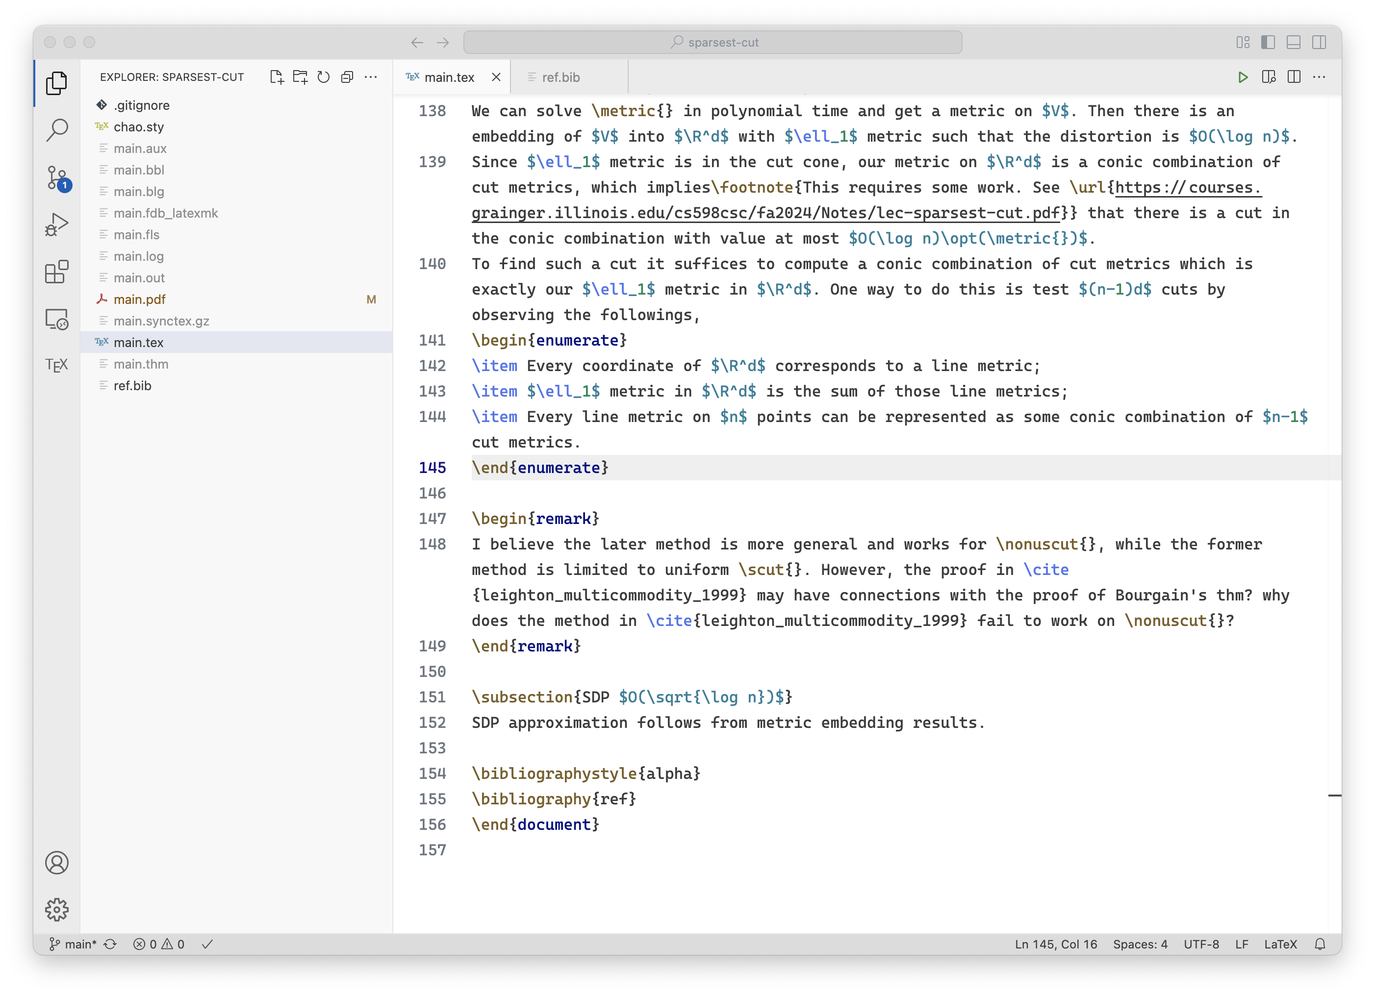
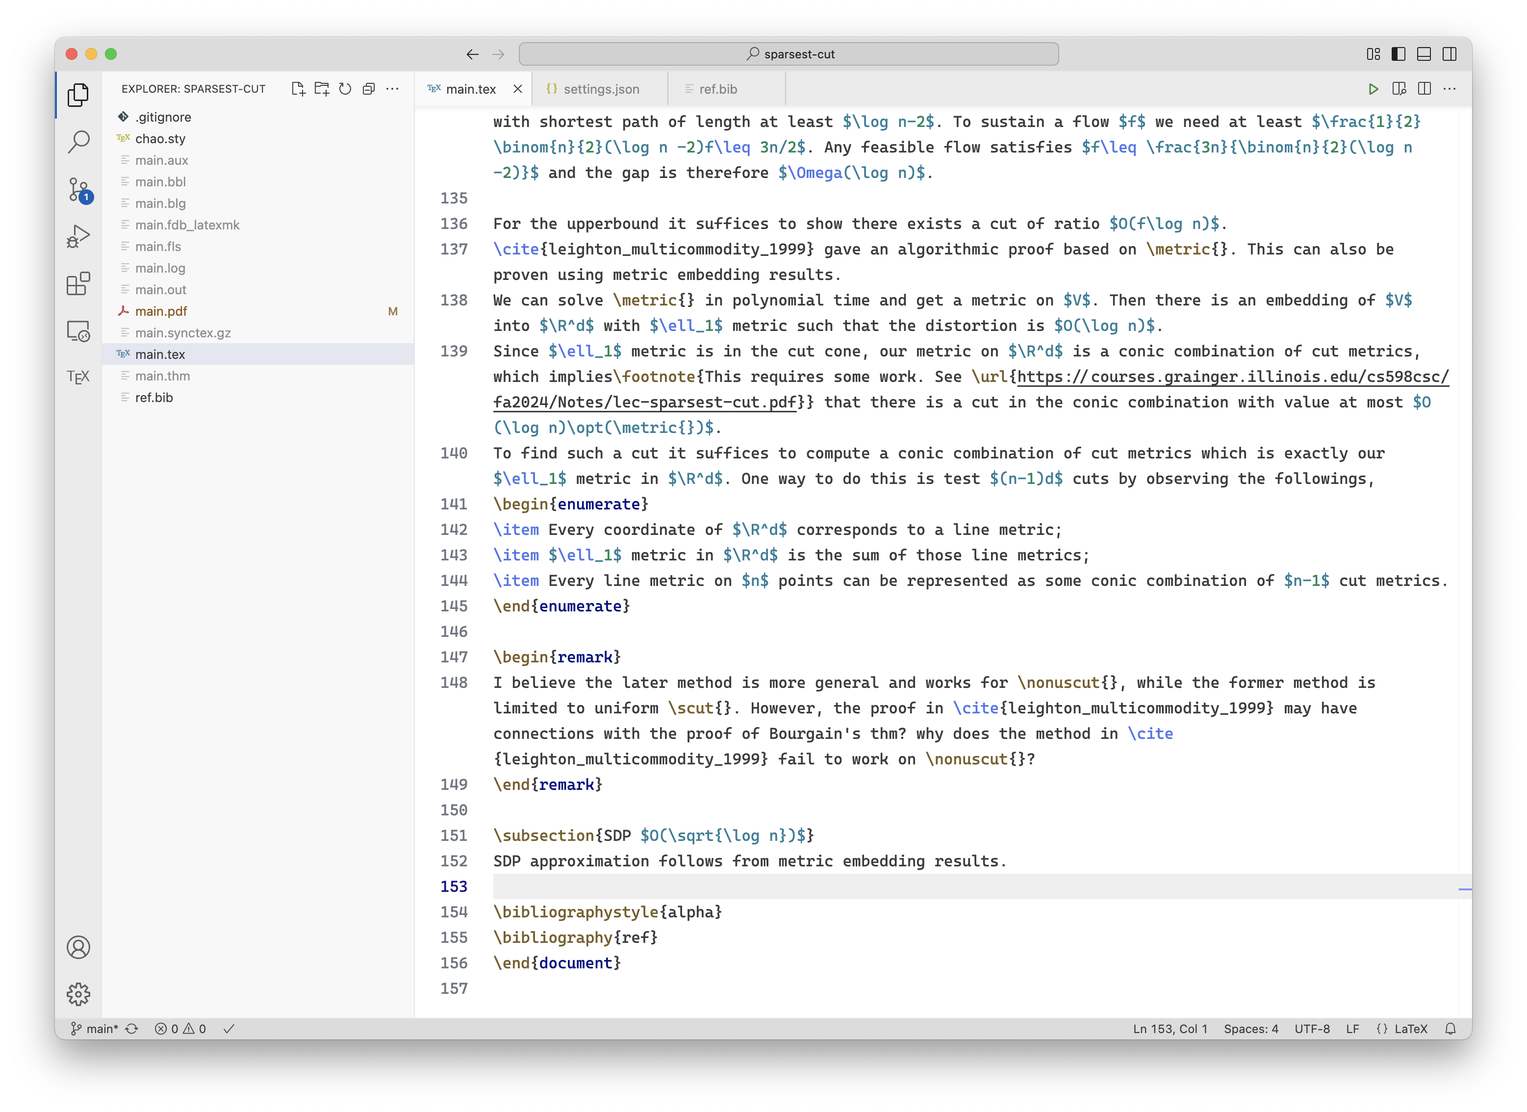
change cursor color. new example

Changed region(s): [[0.0, 0.0, 0.9929, 0.9611], [0.8998, 0.4961, 0.9308, 0.5271]]

diff --git a/_site/posts/zedtheme.html b/_site/posts/zedtheme.html
@@ -71,64 +71,65 @@ Modern theme looks like Zed’s One Light.</p>
 <span id="cb1-16"><a href="#cb1-16" aria-hidden="true" tabindex="-1"></a><span class="at">    </span><span class="fu">&quot;editorGroupHeader.border&quot;</span><span class="kw">:</span><span class="at"> </span><span class="st">&quot;#ebebec&quot;</span><span class="kw">,</span></span>
 <span id="cb1-17"><a href="#cb1-17" aria-hidden="true" tabindex="-1"></a><span class="at">    </span><span class="fu">&quot;statusBar.background&quot;</span><span class="kw">:</span><span class="at"> </span><span class="st">&quot;#dcdcdd&quot;</span><span class="kw">,</span></span>
 <span id="cb1-18"><a href="#cb1-18" aria-hidden="true" tabindex="-1"></a><span class="at">    </span><span class="fu">&quot;activityBar.background&quot;</span><span class="kw">:</span><span class="at"> </span><span class="st">&quot;#ebebec&quot;</span><span class="kw">,</span></span>
-<span id="cb1-19"><a href="#cb1-19" aria-hidden="true" tabindex="-1"></a><span class="kw">}</span><span class="at">,</span></span>
-<span id="cb1-20"><a href="#cb1-20" aria-hidden="true" tabindex="-1"></a><span class="fu">&quot;editor.tokenColorCustomizations&quot;</span><span class="kw">:</span><span class="at"> </span><span class="kw">{</span></span>
-<span id="cb1-21"><a href="#cb1-21" aria-hidden="true" tabindex="-1"></a><span class="at">    </span><span class="fu">&quot;textMateRules&quot;</span><span class="kw">:</span><span class="at"> </span><span class="kw">[</span></span>
-<span id="cb1-22"><a href="#cb1-22" aria-hidden="true" tabindex="-1"></a><span class="at">        </span><span class="kw">{</span></span>
-<span id="cb1-23"><a href="#cb1-23" aria-hidden="true" tabindex="-1"></a><span class="at">            </span><span class="fu">&quot;scope&quot;</span><span class="kw">:</span><span class="at"> </span><span class="kw">[</span></span>
-<span id="cb1-24"><a href="#cb1-24" aria-hidden="true" tabindex="-1"></a><span class="at">                // in light_plus</span></span>
-<span id="cb1-25"><a href="#cb1-25" aria-hidden="true" tabindex="-1"></a><span class="at">                </span><span class="st">&quot;constant.character&quot;</span><span class="kw">,</span></span>
-<span id="cb1-26"><a href="#cb1-26" aria-hidden="true" tabindex="-1"></a><span class="at">                </span><span class="st">&quot;constant.other.option&quot;</span><span class="kw">,</span></span>
-<span id="cb1-27"><a href="#cb1-27" aria-hidden="true" tabindex="-1"></a><span class="at">                // in light_vs</span></span>
-<span id="cb1-28"><a href="#cb1-28" aria-hidden="true" tabindex="-1"></a><span class="at">                </span><span class="st">&quot;meta.embedded&quot;</span><span class="kw">,</span></span>
-<span id="cb1-29"><a href="#cb1-29" aria-hidden="true" tabindex="-1"></a><span class="at">                </span><span class="st">&quot;source.groovy.embedded&quot;</span><span class="kw">,</span></span>
-<span id="cb1-30"><a href="#cb1-30" aria-hidden="true" tabindex="-1"></a><span class="at">                </span><span class="st">&quot;string meta.image.inline.markdown&quot;</span><span class="kw">,</span></span>
-<span id="cb1-31"><a href="#cb1-31" aria-hidden="true" tabindex="-1"></a><span class="at">                </span><span class="st">&quot;variable.legacy.builtin.python&quot;</span><span class="kw">,</span></span>
-<span id="cb1-32"><a href="#cb1-32" aria-hidden="true" tabindex="-1"></a><span class="at">                </span><span class="st">&quot;constant.language&quot;</span><span class="kw">,</span></span>
-<span id="cb1-33"><a href="#cb1-33" aria-hidden="true" tabindex="-1"></a><span class="at">                </span><span class="st">&quot;meta.preprocessor&quot;</span><span class="kw">,</span></span>
-<span id="cb1-34"><a href="#cb1-34" aria-hidden="true" tabindex="-1"></a><span class="at">                </span><span class="st">&quot;entity.name.function.preprocessor&quot;</span><span class="kw">,</span></span>
-<span id="cb1-35"><a href="#cb1-35" aria-hidden="true" tabindex="-1"></a><span class="at">                </span><span class="st">&quot;storage&quot;</span><span class="kw">,</span></span>
-<span id="cb1-36"><a href="#cb1-36" aria-hidden="true" tabindex="-1"></a><span class="at">                </span><span class="st">&quot;storage.type&quot;</span><span class="kw">,</span></span>
-<span id="cb1-37"><a href="#cb1-37" aria-hidden="true" tabindex="-1"></a><span class="at">                </span><span class="st">&quot;storage.modifier&quot;</span><span class="kw">,</span></span>
-<span id="cb1-38"><a href="#cb1-38" aria-hidden="true" tabindex="-1"></a><span class="at">                </span><span class="st">&quot;keyword.operator.noexcept&quot;</span><span class="kw">,</span></span>
-<span id="cb1-39"><a href="#cb1-39" aria-hidden="true" tabindex="-1"></a><span class="at">                </span><span class="st">&quot;string.comment.buffered.block.pug&quot;</span><span class="kw">,</span></span>
-<span id="cb1-40"><a href="#cb1-40" aria-hidden="true" tabindex="-1"></a><span class="at">                </span><span class="st">&quot;string.quoted.pug&quot;</span><span class="kw">,</span></span>
-<span id="cb1-41"><a href="#cb1-41" aria-hidden="true" tabindex="-1"></a><span class="at">                </span><span class="st">&quot;string.interpolated.pug&quot;</span><span class="kw">,</span></span>
-<span id="cb1-42"><a href="#cb1-42" aria-hidden="true" tabindex="-1"></a><span class="at">                </span><span class="st">&quot;string.unquoted.plain.in.yaml&quot;</span><span class="kw">,</span></span>
-<span id="cb1-43"><a href="#cb1-43" aria-hidden="true" tabindex="-1"></a><span class="at">                </span><span class="st">&quot;string.unquoted.plain.out.yaml&quot;</span><span class="kw">,</span></span>
-<span id="cb1-44"><a href="#cb1-44" aria-hidden="true" tabindex="-1"></a><span class="at">                </span><span class="st">&quot;string.unquoted.block.yaml&quot;</span><span class="kw">,</span></span>
-<span id="cb1-45"><a href="#cb1-45" aria-hidden="true" tabindex="-1"></a><span class="at">                </span><span class="st">&quot;string.quoted.single.yaml&quot;</span><span class="kw">,</span></span>
-<span id="cb1-46"><a href="#cb1-46" aria-hidden="true" tabindex="-1"></a><span class="at">                </span><span class="st">&quot;string.quoted.double.xml&quot;</span><span class="kw">,</span></span>
-<span id="cb1-47"><a href="#cb1-47" aria-hidden="true" tabindex="-1"></a><span class="at">                </span><span class="st">&quot;string.quoted.single.xml&quot;</span><span class="kw">,</span></span>
-<span id="cb1-48"><a href="#cb1-48" aria-hidden="true" tabindex="-1"></a><span class="at">                </span><span class="st">&quot;string.unquoted.cdata.xml&quot;</span><span class="kw">,</span></span>
-<span id="cb1-49"><a href="#cb1-49" aria-hidden="true" tabindex="-1"></a><span class="at">                </span><span class="st">&quot;string.quoted.double.html&quot;</span><span class="kw">,</span></span>
-<span id="cb1-50"><a href="#cb1-50" aria-hidden="true" tabindex="-1"></a><span class="at">                </span><span class="st">&quot;string.quoted.single.html&quot;</span><span class="kw">,</span></span>
-<span id="cb1-51"><a href="#cb1-51" aria-hidden="true" tabindex="-1"></a><span class="at">                </span><span class="st">&quot;string.unquoted.html&quot;</span><span class="kw">,</span></span>
-<span id="cb1-52"><a href="#cb1-52" aria-hidden="true" tabindex="-1"></a><span class="at">                </span><span class="st">&quot;string.quoted.single.handlebars&quot;</span><span class="kw">,</span></span>
-<span id="cb1-53"><a href="#cb1-53" aria-hidden="true" tabindex="-1"></a><span class="at">                </span><span class="st">&quot;string.quoted.double.handlebars&quot;</span><span class="kw">,</span></span>
-<span id="cb1-54"><a href="#cb1-54" aria-hidden="true" tabindex="-1"></a><span class="at">                </span><span class="st">&quot;punctuation.definition.template-expression.begin&quot;</span><span class="kw">,</span></span>
-<span id="cb1-55"><a href="#cb1-55" aria-hidden="true" tabindex="-1"></a><span class="at">                </span><span class="st">&quot;punctuation.definition.template-expression.end&quot;</span><span class="kw">,</span></span>
-<span id="cb1-56"><a href="#cb1-56" aria-hidden="true" tabindex="-1"></a><span class="at">                </span><span class="st">&quot;punctuation.section.embedded&quot;</span><span class="kw">,</span></span>
-<span id="cb1-57"><a href="#cb1-57" aria-hidden="true" tabindex="-1"></a><span class="at">                </span><span class="st">&quot;keyword&quot;</span><span class="kw">,</span></span>
-<span id="cb1-58"><a href="#cb1-58" aria-hidden="true" tabindex="-1"></a><span class="at">                </span><span class="st">&quot;keyword.control&quot;</span><span class="kw">,</span></span>
-<span id="cb1-59"><a href="#cb1-59" aria-hidden="true" tabindex="-1"></a><span class="at">                </span><span class="st">&quot;keyword.operator.new&quot;</span><span class="kw">,</span></span>
-<span id="cb1-60"><a href="#cb1-60" aria-hidden="true" tabindex="-1"></a><span class="at">                </span><span class="st">&quot;keyword.operator.expression&quot;</span><span class="kw">,</span></span>
-<span id="cb1-61"><a href="#cb1-61" aria-hidden="true" tabindex="-1"></a><span class="at">                </span><span class="st">&quot;keyword.operator.cast&quot;</span><span class="kw">,</span></span>
-<span id="cb1-62"><a href="#cb1-62" aria-hidden="true" tabindex="-1"></a><span class="at">                </span><span class="st">&quot;keyword.operator.sizeof&quot;</span><span class="kw">,</span></span>
-<span id="cb1-63"><a href="#cb1-63" aria-hidden="true" tabindex="-1"></a><span class="at">                </span><span class="st">&quot;keyword.operator.alignof&quot;</span><span class="kw">,</span></span>
-<span id="cb1-64"><a href="#cb1-64" aria-hidden="true" tabindex="-1"></a><span class="at">                </span><span class="st">&quot;keyword.operator.typeid&quot;</span><span class="kw">,</span></span>
-<span id="cb1-65"><a href="#cb1-65" aria-hidden="true" tabindex="-1"></a><span class="at">                </span><span class="st">&quot;keyword.operator.alignas&quot;</span><span class="kw">,</span></span>
-<span id="cb1-66"><a href="#cb1-66" aria-hidden="true" tabindex="-1"></a><span class="at">                </span><span class="st">&quot;keyword.operator.instanceof&quot;</span><span class="kw">,</span></span>
-<span id="cb1-67"><a href="#cb1-67" aria-hidden="true" tabindex="-1"></a><span class="at">                </span><span class="st">&quot;keyword.operator.logical.python&quot;</span><span class="kw">,</span></span>
-<span id="cb1-68"><a href="#cb1-68" aria-hidden="true" tabindex="-1"></a><span class="at">                </span><span class="st">&quot;keyword.operator.wordlike&quot;</span><span class="kw">,</span></span>
-<span id="cb1-69"><a href="#cb1-69" aria-hidden="true" tabindex="-1"></a><span class="at">                </span><span class="st">&quot;variable.language&quot;</span><span class="kw">,</span></span>
-<span id="cb1-70"><a href="#cb1-70" aria-hidden="true" tabindex="-1"></a><span class="at">            </span><span class="kw">],</span></span>
-<span id="cb1-71"><a href="#cb1-71" aria-hidden="true" tabindex="-1"></a><span class="at">            </span><span class="fu">&quot;settings&quot;</span><span class="kw">:</span><span class="at"> </span><span class="kw">{</span></span>
-<span id="cb1-72"><a href="#cb1-72" aria-hidden="true" tabindex="-1"></a><span class="at">                </span><span class="fu">&quot;foreground&quot;</span><span class="kw">:</span><span class="at"> </span><span class="st">&quot;#4e77ea&quot;</span></span>
-<span id="cb1-73"><a href="#cb1-73" aria-hidden="true" tabindex="-1"></a><span class="at">            </span><span class="kw">}</span></span>
-<span id="cb1-74"><a href="#cb1-74" aria-hidden="true" tabindex="-1"></a><span class="at">        </span><span class="kw">},</span></span>
-<span id="cb1-75"><a href="#cb1-75" aria-hidden="true" tabindex="-1"></a><span class="at">    </span><span class="kw">]</span></span>
-<span id="cb1-76"><a href="#cb1-76" aria-hidden="true" tabindex="-1"></a><span class="kw">}</span><span class="at">,</span></span></code></pre></div>
+<span id="cb1-19"><a href="#cb1-19" aria-hidden="true" tabindex="-1"></a><span class="at">    </span><span class="fu">&quot;editorCursor.foreground&quot;</span><span class="kw">:</span><span class="at"> </span><span class="st">&quot;#526FFF&quot;</span></span>
+<span id="cb1-20"><a href="#cb1-20" aria-hidden="true" tabindex="-1"></a><span class="kw">}</span><span class="at">,</span></span>
+<span id="cb1-21"><a href="#cb1-21" aria-hidden="true" tabindex="-1"></a><span class="fu">&quot;editor.tokenColorCustomizations&quot;</span><span class="kw">:</span><span class="at"> </span><span class="kw">{</span></span>
+<span id="cb1-22"><a href="#cb1-22" aria-hidden="true" tabindex="-1"></a><span class="at">    </span><span class="fu">&quot;textMateRules&quot;</span><span class="kw">:</span><span class="at"> </span><span class="kw">[</span></span>
+<span id="cb1-23"><a href="#cb1-23" aria-hidden="true" tabindex="-1"></a><span class="at">        </span><span class="kw">{</span></span>
+<span id="cb1-24"><a href="#cb1-24" aria-hidden="true" tabindex="-1"></a><span class="at">            </span><span class="fu">&quot;scope&quot;</span><span class="kw">:</span><span class="at"> </span><span class="kw">[</span></span>
+<span id="cb1-25"><a href="#cb1-25" aria-hidden="true" tabindex="-1"></a><span class="at">                // in light_plus</span></span>
+<span id="cb1-26"><a href="#cb1-26" aria-hidden="true" tabindex="-1"></a><span class="at">                </span><span class="st">&quot;constant.character&quot;</span><span class="kw">,</span></span>
+<span id="cb1-27"><a href="#cb1-27" aria-hidden="true" tabindex="-1"></a><span class="at">                </span><span class="st">&quot;constant.other.option&quot;</span><span class="kw">,</span></span>
+<span id="cb1-28"><a href="#cb1-28" aria-hidden="true" tabindex="-1"></a><span class="at">                // in light_vs</span></span>
+<span id="cb1-29"><a href="#cb1-29" aria-hidden="true" tabindex="-1"></a><span class="at">                </span><span class="st">&quot;meta.embedded&quot;</span><span class="kw">,</span></span>
+<span id="cb1-30"><a href="#cb1-30" aria-hidden="true" tabindex="-1"></a><span class="at">                </span><span class="st">&quot;source.groovy.embedded&quot;</span><span class="kw">,</span></span>
+<span id="cb1-31"><a href="#cb1-31" aria-hidden="true" tabindex="-1"></a><span class="at">                </span><span class="st">&quot;string meta.image.inline.markdown&quot;</span><span class="kw">,</span></span>
+<span id="cb1-32"><a href="#cb1-32" aria-hidden="true" tabindex="-1"></a><span class="at">                </span><span class="st">&quot;variable.legacy.builtin.python&quot;</span><span class="kw">,</span></span>
+<span id="cb1-33"><a href="#cb1-33" aria-hidden="true" tabindex="-1"></a><span class="at">                </span><span class="st">&quot;constant.language&quot;</span><span class="kw">,</span></span>
+<span id="cb1-34"><a href="#cb1-34" aria-hidden="true" tabindex="-1"></a><span class="at">                </span><span class="st">&quot;meta.preprocessor&quot;</span><span class="kw">,</span></span>
+<span id="cb1-35"><a href="#cb1-35" aria-hidden="true" tabindex="-1"></a><span class="at">                </span><span class="st">&quot;entity.name.function.preprocessor&quot;</span><span class="kw">,</span></span>
+<span id="cb1-36"><a href="#cb1-36" aria-hidden="true" tabindex="-1"></a><span class="at">                </span><span class="st">&quot;storage&quot;</span><span class="kw">,</span></span>
+<span id="cb1-37"><a href="#cb1-37" aria-hidden="true" tabindex="-1"></a><span class="at">                </span><span class="st">&quot;storage.type&quot;</span><span class="kw">,</span></span>
+<span id="cb1-38"><a href="#cb1-38" aria-hidden="true" tabindex="-1"></a><span class="at">                </span><span class="st">&quot;storage.modifier&quot;</span><span class="kw">,</span></span>
+<span id="cb1-39"><a href="#cb1-39" aria-hidden="true" tabindex="-1"></a><span class="at">                </span><span class="st">&quot;keyword.operator.noexcept&quot;</span><span class="kw">,</span></span>
+<span id="cb1-40"><a href="#cb1-40" aria-hidden="true" tabindex="-1"></a><span class="at">                </span><span class="st">&quot;string.comment.buffered.block.pug&quot;</span><span class="kw">,</span></span>
+<span id="cb1-41"><a href="#cb1-41" aria-hidden="true" tabindex="-1"></a><span class="at">                </span><span class="st">&quot;string.quoted.pug&quot;</span><span class="kw">,</span></span>
+<span id="cb1-42"><a href="#cb1-42" aria-hidden="true" tabindex="-1"></a><span class="at">                </span><span class="st">&quot;string.interpolated.pug&quot;</span><span class="kw">,</span></span>
+<span id="cb1-43"><a href="#cb1-43" aria-hidden="true" tabindex="-1"></a><span class="at">                </span><span class="st">&quot;string.unquoted.plain.in.yaml&quot;</span><span class="kw">,</span></span>
+<span id="cb1-44"><a href="#cb1-44" aria-hidden="true" tabindex="-1"></a><span class="at">                </span><span class="st">&quot;string.unquoted.plain.out.yaml&quot;</span><span class="kw">,</span></span>
+<span id="cb1-45"><a href="#cb1-45" aria-hidden="true" tabindex="-1"></a><span class="at">                </span><span class="st">&quot;string.unquoted.block.yaml&quot;</span><span class="kw">,</span></span>
+<span id="cb1-46"><a href="#cb1-46" aria-hidden="true" tabindex="-1"></a><span class="at">                </span><span class="st">&quot;string.quoted.single.yaml&quot;</span><span class="kw">,</span></span>
+<span id="cb1-47"><a href="#cb1-47" aria-hidden="true" tabindex="-1"></a><span class="at">                </span><span class="st">&quot;string.quoted.double.xml&quot;</span><span class="kw">,</span></span>
+<span id="cb1-48"><a href="#cb1-48" aria-hidden="true" tabindex="-1"></a><span class="at">                </span><span class="st">&quot;string.quoted.single.xml&quot;</span><span class="kw">,</span></span>
+<span id="cb1-49"><a href="#cb1-49" aria-hidden="true" tabindex="-1"></a><span class="at">                </span><span class="st">&quot;string.unquoted.cdata.xml&quot;</span><span class="kw">,</span></span>
+<span id="cb1-50"><a href="#cb1-50" aria-hidden="true" tabindex="-1"></a><span class="at">                </span><span class="st">&quot;string.quoted.double.html&quot;</span><span class="kw">,</span></span>
+<span id="cb1-51"><a href="#cb1-51" aria-hidden="true" tabindex="-1"></a><span class="at">                </span><span class="st">&quot;string.quoted.single.html&quot;</span><span class="kw">,</span></span>
+<span id="cb1-52"><a href="#cb1-52" aria-hidden="true" tabindex="-1"></a><span class="at">                </span><span class="st">&quot;string.unquoted.html&quot;</span><span class="kw">,</span></span>
+<span id="cb1-53"><a href="#cb1-53" aria-hidden="true" tabindex="-1"></a><span class="at">                </span><span class="st">&quot;string.quoted.single.handlebars&quot;</span><span class="kw">,</span></span>
+<span id="cb1-54"><a href="#cb1-54" aria-hidden="true" tabindex="-1"></a><span class="at">                </span><span class="st">&quot;string.quoted.double.handlebars&quot;</span><span class="kw">,</span></span>
+<span id="cb1-55"><a href="#cb1-55" aria-hidden="true" tabindex="-1"></a><span class="at">                </span><span class="st">&quot;punctuation.definition.template-expression.begin&quot;</span><span class="kw">,</span></span>
+<span id="cb1-56"><a href="#cb1-56" aria-hidden="true" tabindex="-1"></a><span class="at">                </span><span class="st">&quot;punctuation.definition.template-expression.end&quot;</span><span class="kw">,</span></span>
+<span id="cb1-57"><a href="#cb1-57" aria-hidden="true" tabindex="-1"></a><span class="at">                </span><span class="st">&quot;punctuation.section.embedded&quot;</span><span class="kw">,</span></span>
+<span id="cb1-58"><a href="#cb1-58" aria-hidden="true" tabindex="-1"></a><span class="at">                </span><span class="st">&quot;keyword&quot;</span><span class="kw">,</span></span>
+<span id="cb1-59"><a href="#cb1-59" aria-hidden="true" tabindex="-1"></a><span class="at">                </span><span class="st">&quot;keyword.control&quot;</span><span class="kw">,</span></span>
+<span id="cb1-60"><a href="#cb1-60" aria-hidden="true" tabindex="-1"></a><span class="at">                </span><span class="st">&quot;keyword.operator.new&quot;</span><span class="kw">,</span></span>
+<span id="cb1-61"><a href="#cb1-61" aria-hidden="true" tabindex="-1"></a><span class="at">                </span><span class="st">&quot;keyword.operator.expression&quot;</span><span class="kw">,</span></span>
+<span id="cb1-62"><a href="#cb1-62" aria-hidden="true" tabindex="-1"></a><span class="at">                </span><span class="st">&quot;keyword.operator.cast&quot;</span><span class="kw">,</span></span>
+<span id="cb1-63"><a href="#cb1-63" aria-hidden="true" tabindex="-1"></a><span class="at">                </span><span class="st">&quot;keyword.operator.sizeof&quot;</span><span class="kw">,</span></span>
+<span id="cb1-64"><a href="#cb1-64" aria-hidden="true" tabindex="-1"></a><span class="at">                </span><span class="st">&quot;keyword.operator.alignof&quot;</span><span class="kw">,</span></span>
+<span id="cb1-65"><a href="#cb1-65" aria-hidden="true" tabindex="-1"></a><span class="at">                </span><span class="st">&quot;keyword.operator.typeid&quot;</span><span class="kw">,</span></span>
+<span id="cb1-66"><a href="#cb1-66" aria-hidden="true" tabindex="-1"></a><span class="at">                </span><span class="st">&quot;keyword.operator.alignas&quot;</span><span class="kw">,</span></span>
+<span id="cb1-67"><a href="#cb1-67" aria-hidden="true" tabindex="-1"></a><span class="at">                </span><span class="st">&quot;keyword.operator.instanceof&quot;</span><span class="kw">,</span></span>
+<span id="cb1-68"><a href="#cb1-68" aria-hidden="true" tabindex="-1"></a><span class="at">                </span><span class="st">&quot;keyword.operator.logical.python&quot;</span><span class="kw">,</span></span>
+<span id="cb1-69"><a href="#cb1-69" aria-hidden="true" tabindex="-1"></a><span class="at">                </span><span class="st">&quot;keyword.operator.wordlike&quot;</span><span class="kw">,</span></span>
+<span id="cb1-70"><a href="#cb1-70" aria-hidden="true" tabindex="-1"></a><span class="at">                </span><span class="st">&quot;variable.language&quot;</span><span class="kw">,</span></span>
+<span id="cb1-71"><a href="#cb1-71" aria-hidden="true" tabindex="-1"></a><span class="at">            </span><span class="kw">],</span></span>
+<span id="cb1-72"><a href="#cb1-72" aria-hidden="true" tabindex="-1"></a><span class="at">            </span><span class="fu">&quot;settings&quot;</span><span class="kw">:</span><span class="at"> </span><span class="kw">{</span></span>
+<span id="cb1-73"><a href="#cb1-73" aria-hidden="true" tabindex="-1"></a><span class="at">                </span><span class="fu">&quot;foreground&quot;</span><span class="kw">:</span><span class="at"> </span><span class="st">&quot;#4e77ea&quot;</span></span>
+<span id="cb1-74"><a href="#cb1-74" aria-hidden="true" tabindex="-1"></a><span class="at">            </span><span class="kw">}</span></span>
+<span id="cb1-75"><a href="#cb1-75" aria-hidden="true" tabindex="-1"></a><span class="at">        </span><span class="kw">},</span></span>
+<span id="cb1-76"><a href="#cb1-76" aria-hidden="true" tabindex="-1"></a><span class="at">    </span><span class="kw">]</span></span>
+<span id="cb1-77"><a href="#cb1-77" aria-hidden="true" tabindex="-1"></a><span class="kw">}</span><span class="at">,</span></span></code></pre></div>
 <figure>
 <img src="../images/zedtheme/example.png" alt="example" />
 <figcaption aria-hidden="true">example</figcaption>

diff --git a/posts/zedtheme.md b/posts/zedtheme.md
@@ -32,6 +32,7 @@ Throw the following into `settings.json` to make the Light Modern theme looks li
     "editorGroupHeader.border": "#ebebec",
     "statusBar.background": "#dcdcdd",
     "activityBar.background": "#ebebec",
+    "editorCursor.foreground": "#526FFF"
 },
 "editor.tokenColorCustomizations": {
     "textMateRules": [
